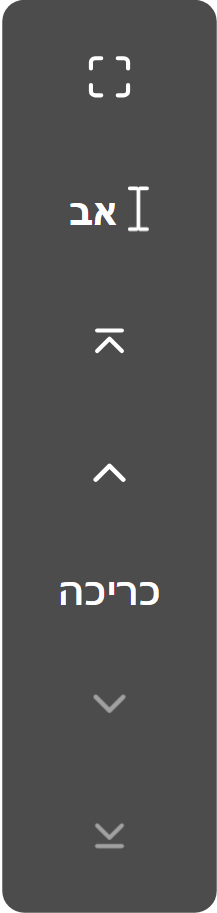
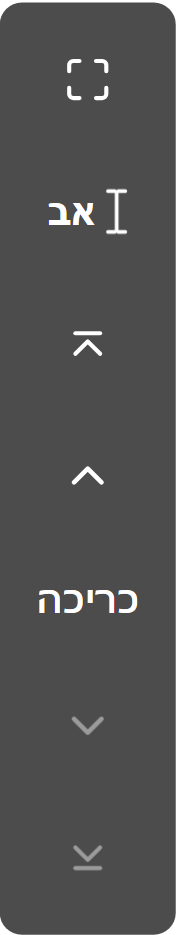
Keep vertical toolbar slim with a fixed two-line title height

diff --git a/react/src/toolbar/PageIndicator.tsx b/react/src/toolbar/PageIndicator.tsx
@@ -1,48 +1,8 @@
 import type React from "react";
-import { useCallback, useEffect, useLayoutEffect, useMemo, useRef, useState } from "react";
+import { useCallback, useEffect, useRef, useState } from "react";
 import { useToolbar } from "./ToolbarContext";
 
 type PageIndicatorMode = "semantic" | "index";
-
-const useIndicatorLayoutEffect = typeof window === "undefined" ? useEffect : useLayoutEffect;
-
-function indicatorLabel(left: string, right: string, placeholder: string, total?: string): string {
-	const range = !left
-		? right || placeholder
-		: !right || left === right
-			? left
-			: `${left} - ${right}`;
-	return total === undefined ? range : `${range} / ${total}`;
-}
-
-/** Measure all possible labels once before paint, never the current title alone. */
-function useIndicatorWidth(enabled: boolean, labels: readonly string[], editable: boolean) {
-	const elementRef = useRef<HTMLElement | null>(null);
-	const setElement = useCallback((element: HTMLElement | null) => {
-		elementRef.current = element;
-	}, []);
-	useIndicatorLayoutEffect(() => {
-		const element = elementRef.current;
-		if (!enabled || !element) return;
-		const context = element.ownerDocument.createElement("canvas").getContext("2d");
-		if (!context) return;
-		const measure = () => {
-			context.font = getComputedStyle(element).font;
-			let width = 0;
-			for (const label of labels) width = Math.max(width, context.measureText(label).width);
-			element.style.setProperty("--flipbook-indicator-text-width", `${Math.ceil(width)}px`);
-		};
-		measure();
-		const fonts = element.ownerDocument.fonts;
-		fonts.addEventListener("loadingdone", measure);
-		window.addEventListener("resize", measure);
-		return () => {
-			fonts.removeEventListener("loadingdone", measure);
-			window.removeEventListener("resize", measure);
-		};
-	}, [enabled, labels, editable]);
-	return setElement;
-}
 
 interface PageIndicatorProps {
 	/**
@@ -114,33 +74,42 @@ const PageIndicator: React.FC<PageIndicatorProps> = ({
 	const leftName = getPageName(leftPageIndex);
 	const rightName = rightPageIndex != null ? getPageName(rightPageIndex) : "";
 
-	const labels = useMemo(() => {
-		if (orientation !== "vertical") return [];
-		const total = showTotal ? String(of) : undefined;
-		const labels = new Set([indicatorLabel("", "", placeholder, total)]);
-		for (let index = 0; index < totalPages; index++) {
-			labels.add(
-				indicatorLabel(
-					getPageName(index),
-					index + 1 < totalPages ? getPageName(index + 1) : "",
-					placeholder,
-					total,
-				),
-			);
+	// "Of" comes from the book (via context); default is total pages count
+	const getTotalDisplay = useCallback((): string => String(of), [of]);
+
+	// Build display text for the range (always left physical page then right, e.g. י"א - י"ב)
+	const buildDisplayText = useCallback((): string => {
+		const firstName = leftName;
+		const secondName = rightName;
+
+		let rangeText: string;
+		if (!firstName && !secondName) {
+			// Both empty (e.g., cover pages)
+			rangeText = placeholder;
+		} else if (!firstName) {
+			// Only second has a name
+			rangeText = secondName;
+		} else if (!secondName) {
+			// Only first has a name
+			rangeText = firstName;
+		} else if (firstName === secondName) {
+			// Same name on both pages - show scalar
+			rangeText = firstName;
+		} else {
+			// Different names - show range
+			rangeText = `${firstName} - ${secondName}`;
 		}
-		return [...labels];
-	}, [orientation, totalPages, getPageName, placeholder, showTotal, of]);
-	const setIndicatorElement = useIndicatorWidth(orientation === "vertical", labels, editable);
+
+		if (showTotal) {
+			return `${rangeText} / ${getTotalDisplay()}`;
+		}
+		return rangeText;
+	}, [leftName, rightName, placeholder, showTotal, getTotalDisplay]);
 
 	// The primary semantic name for editing (use left page in RTL reading order)
 	const primarySemanticName = direction === "rtl" ? rightName || leftName : leftName || rightName;
 
-	const displayText = indicatorLabel(
-		leftName,
-		rightName,
-		placeholder,
-		showTotal ? String(of) : undefined,
-	);
+	const displayText = buildDisplayText();
 
 	// Sync input value when page changes and not editing.
 	// After Enter navigation, justNavigatedRef prevents flashing the stale value;
@@ -211,7 +180,6 @@ const PageIndicator: React.FC<PageIndicatorProps> = ({
 	if (!editable) {
 		return (
 			<span
-				ref={setIndicatorElement}
 				className={`flipbook-toolbar-indicator ${className ?? ""}`.trim()}
 				title={displayText}
 				aria-live="polite"
@@ -234,7 +202,6 @@ const PageIndicator: React.FC<PageIndicatorProps> = ({
 	const editingClass = isEditing ? "flipbook-toolbar-indicator--editing" : "";
 	return (
 		<input
-			ref={setIndicatorElement}
 			type="text"
 			className={`flipbook-toolbar-indicator ${editingClass} ${className ?? ""}`.trim()}
 			value={inputValue}

diff --git a/e2e/vertical-toolbar.spec.ts b/e2e/vertical-toolbar.spec.ts
@@ -105,6 +105,7 @@ test("reserves a stable title slot before visiting cover, month and end labels",
 	const toolbar = page.getByRole("toolbar");
 	const indicator = toolbar.locator(".flipbook-toolbar-indicator");
 	const initial = await toolbar.boundingBox();
+	expect(initial.width).toBeCloseTo(64, 1);
 	const months = page.getByRole("combobox", { name: "Go to month" });
 	const options = await months.locator("option").evaluateAll((options) =>
 		options.map((option) => ({
@@ -131,22 +132,23 @@ test("reserves a stable title slot before visiting cover, month and end labels",
 	});
 });
 
-test("caps long title space with ellipsis and keeps the full label available", async ({ page }) => {
+test("caps title height at two lines with ellipsis and keeps the full label available", async ({
+	page,
+}) => {
 	await page.goto("/?example=vertical-calendar");
 	await page.getByRole("combobox", { name: "Toolbar layout" }).selectOption("vertical");
 	const toolbar = page.getByRole("toolbar");
-	await toolbar.evaluate((element) =>
-		(element as HTMLElement).style.setProperty("--flipbook-indicator-max-width", "28px"),
-	);
 	const indicator = toolbar.locator(".flipbook-toolbar-indicator");
+	await indicator.evaluate((element) => ((element as HTMLElement).style.width = "20px"));
 	await expect(indicator).toHaveAttribute("title", "תשרי 87");
 	const label = indicator.locator(".flipbook-toolbar-indicator-label");
 	await expect(label).toHaveCSS("text-overflow", "ellipsis");
-	await expect(label).toHaveCSS("white-space", "nowrap");
+	await expect(label).toHaveCSS("white-space", "normal");
+	await expect(label).toHaveCSS("-webkit-line-clamp", "2");
 	const metrics = await label.evaluate((element) => ({
-		width: element.clientWidth,
-		content: element.scrollWidth,
+		height: element.clientHeight,
+		content: element.scrollHeight,
 	}));
-	expect(metrics.content).toBeGreaterThan(metrics.width);
+	expect(metrics.content).toBeGreaterThan(metrics.height);
 	await expect(indicator).toHaveText("תשרי 87");
 });

diff --git a/react/src/toolbar/Toolbar.css b/react/src/toolbar/Toolbar.css
@@ -67,8 +67,8 @@
 
 .flipbook-toolbar--vertical {
 	flex-direction: column;
-	width: max-content;
-	min-width: 64px;
+	width: 64px;
+	flex-shrink: 0;
 	min-height: 0;
 	padding: 8px;
 }
@@ -212,24 +212,25 @@ input.flipbook-toolbar-indicator:focus {
 	outline-offset: 2px;
 }
 
-/* Reserve the widest title up front, with a bounded single-line slot. */
+/* Keep the rail slim and reserve the full capped title height from the start. */
 .flipbook-toolbar--vertical .flipbook-toolbar-indicator {
 	box-sizing: border-box;
-	width: min(
-		calc(var(--flipbook-indicator-text-width, 64px) + 16px),
-		var(--flipbook-indicator-max-width, 8ch)
-	);
-	height: 28px;
+	width: 100%;
+	height: calc(1.25em * var(--flipbook-indicator-max-lines, 2));
 	flex: 0 0 auto;
-	white-space: nowrap;
+	white-space: normal;
 	text-overflow: ellipsis;
 }
 
 .flipbook-toolbar-indicator-label {
-	display: block;
+	display: -webkit-box;
+	-webkit-box-orient: vertical;
+	-webkit-line-clamp: var(--flipbook-indicator-max-lines, 2);
 	min-width: 0;
 	overflow: hidden;
-	white-space: nowrap;
+	overflow-wrap: anywhere;
+	white-space: normal;
+	line-height: 1.25em;
 	text-overflow: ellipsis;
 }
 

diff --git a/.github/tool-registry.md b/.github/tool-registry.md
@@ -109,12 +109,3 @@ Each entry should include:
 - Discover month starts and leap months from the runtime's actual fields. Treat month-name strings as opaque identifiers; the demo's month names are separate presentation data. [Unicode's calendar data](https://unicode.org/reports/tr35/tr35-dates.html#Calendar_Elements) documents calendar-specific month naming.
 - Index civil days in UTC and construct local dates from their civil fields. Dividing elapsed local hours by 24 would make clock changes affect date indexing.
 - The previous demo conversion file claimed its Hebcal port was MIT-licensed, but [upstream declares GPL-2.0-or-later](https://github.com/hebcal/hdate-js/blob/main/package.json). The port was replaced with platform calls; no copied calendar algorithm, package, or network service remains.
-
-## Canvas text measurement for stable indicator sizing
-
-**Version**: Platform HTML Canvas 2D / CSS Font Loading APIs
-**Date**: 2026-11-14
-
-- [Canvas text metrics](https://html.spec.whatwg.org/multipage/canvas.html#dom-context-2d-measuretext-dev) measure text using the context's font. Use the indicator's computed font, measure the complete label set before paint, and memoize that set independently of the current page.
-- Keep the reserved slot bounded with CSS and use single-line ellipsis. The DOM retains the full label for accessibility and a title tooltip.
-- Font changes can change text metrics. [FontFaceSet loading events](https://www.w3.org/TR/css-font-loading-3/#fontfaceset-interface) allow remeasurement after fonts load; resize and font listeners must be removed on cleanup.

diff --git a/docs/guides/examples.md b/docs/guides/examples.md
@@ -125,12 +125,11 @@ above the indicator and downward navigation below it. Place the toolbar beside
 the book using your own container layout. The calendar demo's **Toolbar** selector
 lets you switch layouts without changing the selected month.
 
-The vertical toolbar reserves its title slot from all possible page labels
-before painting, so shorter cover/end names and longer month names do not
-resize the controls. The slot has a fixed single-line height and a default
-maximum width of `8ch`. Override `--flipbook-indicator-max-width` on the toolbar
-to change that cap. Overflow uses an ellipsis; the full label remains in the
-accessible text and native title tooltip.
+The vertical toolbar keeps its slim 64px width and reserves a two-line title
+area from the start. Short cover/end names and wrapped month names therefore
+use the same height. Set `--flipbook-indicator-max-lines` on the toolbar to
+change the reserved line count. Longer labels clamp to that height with an
+ellipsis; the full label remains in the accessible text and native title tooltip.
 
 - The book splits vertically at the binding: the **lower half** is the live
   sheet stack, the **upper half** collects turned sheets.

diff --git a/CHANGELOG.md b/CHANGELOG.md
@@ -22,7 +22,7 @@ and this project adheres to [Semantic Versioning](https://semver.org/spec/v2.0.0
 
 ### Fixed
 
-- Vertical toolbar titles reserve bounded space for the longest label before navigation, keeping toolbar dimensions stable. Overflow uses ellipsis with the full label available in a tooltip.
+- Vertical toolbars keep their slim width and reserve a fixed two-line title height before navigation. Longer titles clamp with ellipsis, keeping the full label available in a tooltip.
 - The vertical binding uses paired wire loops in profile with separate near and far arcs; lifted sheets pass between the wire layers during a turn (#375).
 - The front-wire fallback also scales with the sheet stack, keeping late-month backward turns threaded in retained calendar previews (#375).
 - Calendar conversion now uses native Intl Hebrew-calendar support in place of the copied conversion implementation; clickable dates show local details without an external calendar service (#375).
